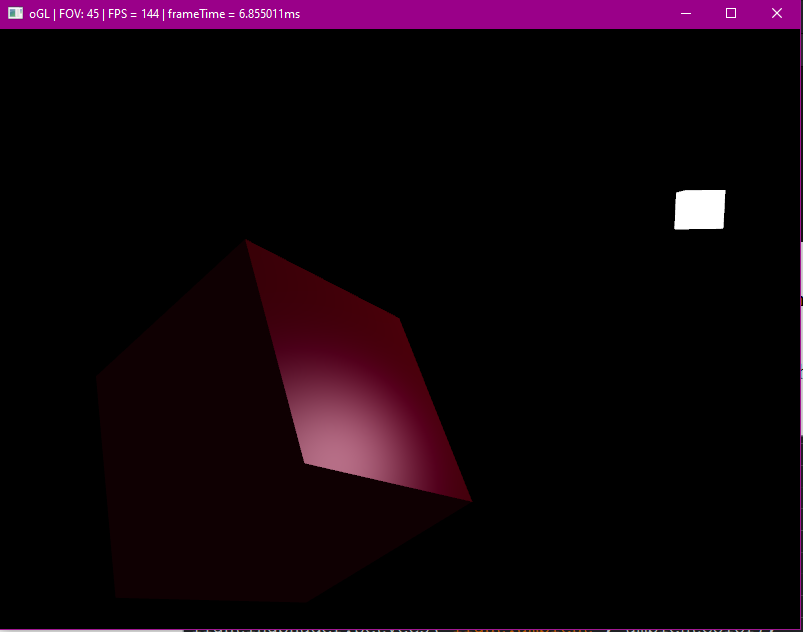
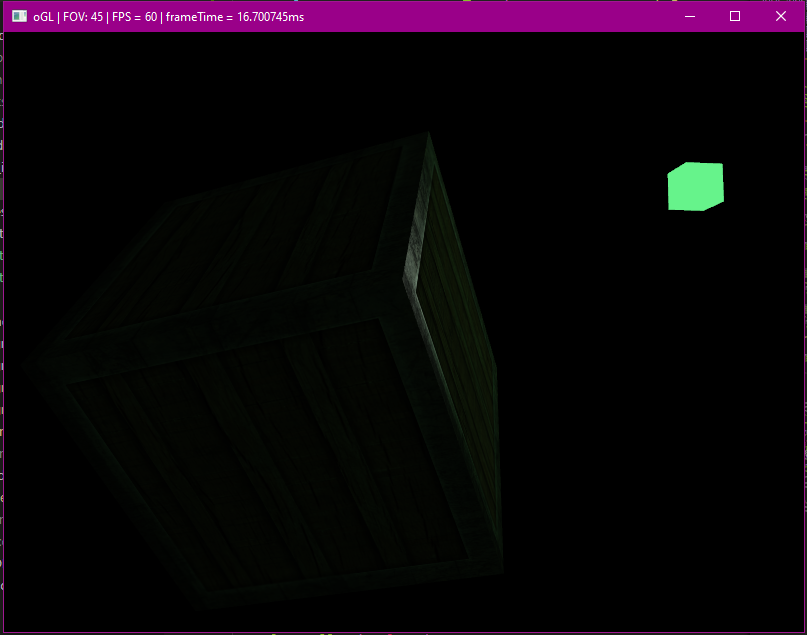
Material textures and build info

diff --git a/src/main.cpp b/src/main.cpp
@@ -154,11 +154,49 @@ int main(int argc, char **argv){
     glBufferData(GL_ARRAY_BUFFER, sizeof(vertices), vertices, GL_STATIC_DRAW);
     glVertexAttribPointer(0, 3, GL_FLOAT, GL_FALSE, 8 * sizeof(float), (void *)0);
     glVertexAttribPointer(1, 3, GL_FLOAT, GL_FALSE, 8 * sizeof(float), (void *)(3 * sizeof(float)));
-    glVertexAttribPointer(2, 2, GL_FLOAT, GL_FALSE, 8 * sizeof(float), (void *)(5 * sizeof(float)));
+    glVertexAttribPointer(2, 2, GL_FLOAT, GL_FALSE, 8 * sizeof(float), (void *)(6 * sizeof(float)));
     glEnableVertexAttribArray(0);
     glEnableVertexAttribArray(1);
+    glEnableVertexAttribArray(2);
     glBindBuffer(GL_ARRAY_BUFFER, 0);
     glBindVertexArray(0);
+
+    // texture_diffuse
+    unsigned int crateDiffuse;
+    glGenTextures(1, &crateDiffuse);
+    glBindTexture(GL_TEXTURE_2D, crateDiffuse);
+    glTexParameteri(GL_TEXTURE_2D, GL_TEXTURE_WRAP_S, GL_REPEAT);
+    glTexParameteri(GL_TEXTURE_2D, GL_TEXTURE_WRAP_T, GL_CLAMP_TO_EDGE);
+    glTexParameteri(GL_TEXTURE_2D, GL_TEXTURE_MIN_FILTER, GL_LINEAR_MIPMAP_NEAREST);
+    glTexParameteri(GL_TEXTURE_2D, GL_TEXTURE_MAG_FILTER, GL_LINEAR);
+    int texWidth, texHeight, texChannels;
+    stbi_set_flip_vertically_on_load(true);
+    unsigned char* data = stbi_load("../res/container2.png", &texWidth, &texHeight, &texChannels, 0);
+    if (data) {
+        glTexImage2D(GL_TEXTURE_2D, 0, GL_RGBA, texWidth, texHeight, 0, GL_RGBA, GL_UNSIGNED_BYTE, data);
+        glGenerateMipmap(GL_TEXTURE_2D);
+    } else {
+        std::cerr << "Failed to load texture: " << "../res/container2.png" << std::endl;
+    }
+    stbi_image_free(data);
+    // texture_specular
+    unsigned int crateSpecular;
+    glGenTextures(1, &crateSpecular);
+    glBindTexture(GL_TEXTURE_2D, crateSpecular);
+    glTexParameteri(GL_TEXTURE_2D, GL_TEXTURE_WRAP_S, GL_REPEAT);
+    glTexParameteri(GL_TEXTURE_2D, GL_TEXTURE_WRAP_T, GL_CLAMP_TO_EDGE);
+    glTexParameteri(GL_TEXTURE_2D, GL_TEXTURE_MIN_FILTER, GL_LINEAR_MIPMAP_NEAREST);
+    glTexParameteri(GL_TEXTURE_2D, GL_TEXTURE_MAG_FILTER, GL_LINEAR);
+    stbi_set_flip_vertically_on_load(true);
+    data = stbi_load("../res/container2_specular.png", &texWidth, &texHeight, &texChannels, 0);
+    if (data) {
+        glTexImage2D(GL_TEXTURE_2D, 0, GL_RGBA, texWidth, texHeight, 0, GL_RGBA, GL_UNSIGNED_BYTE, data);
+        glGenerateMipmap(GL_TEXTURE_2D);
+    } else {
+        std::cerr << "Failed to load texture: " << "../res/container2_specular.png" << std::endl;
+    }
+    stbi_image_free(data);
+
 
     shader lightingShader("./vertex.vs", "./fragment_light.fs");
     lightingShader.use();
@@ -172,7 +210,7 @@ int main(int argc, char **argv){
     glBufferData(GL_ARRAY_BUFFER, sizeof(vertices), vertices, GL_STATIC_DRAW);
     glVertexAttribPointer(0, 3, GL_FLOAT, GL_FALSE, 8 * sizeof(float), (void *)0);
     glVertexAttribPointer(1, 3, GL_FLOAT, GL_FALSE, 8 * sizeof(float), (void *)(3 * sizeof(float)));
-    glVertexAttribPointer(2, 2, GL_FLOAT, GL_FALSE, 8 * sizeof(float), (void *)(5 * sizeof(float)));
+    glVertexAttribPointer(2, 2, GL_FLOAT, GL_FALSE, 8 * sizeof(float), (void *)(6 * sizeof(float)));
     glEnableVertexAttribArray(0);
     glBindBuffer(GL_ARRAY_BUFFER, 0);
     glBindVertexArray(0);
@@ -207,20 +245,19 @@ int main(int argc, char **argv){
 
         // object
         shaderCrate.use();
-        shaderCrate.setVec3("material.ambient", 1.0f, 0.5f, 0.31f);
-        shaderCrate.setVec3("material.diffuse", 1.0f, 0.5f, 0.31f);
-        shaderCrate.setVec3("material.specular", 0.5f, 0.5f, 0.5f);
+        shaderCrate.setInt("material.diffuse", 0);
+        shaderCrate.setInt("material.specular", 1);
         shaderCrate.setFloat("material.shininess", 32.0f);
 
         glm::vec3 lightColor;
-        lightColor.x = sin(glfwGetTime() * 2.0f);
-        lightColor.y = sin(glfwGetTime() * 0.7f);
-        lightColor.z = sin(glfwGetTime() * 1.3f);
+        lightColor.x = 0.7f + sin(glfwGetTime() * 2.0f) * 0.3f;
+        lightColor.y = 0.7f +sin(glfwGetTime() * 0.7f) * 0.3f;
+        lightColor.z = 0.7f +sin(glfwGetTime() * 1.3f) * 0.3f;
         glm::vec3 lightDiffuse = lightColor * glm::vec3(0.5f);
         glm::vec3 lightAmbient = lightDiffuse * glm::vec3(0.2f);
-        shaderCrate.setVec3("light.position", lightPos);
         shaderCrate.setVec3("light.ambient", lightAmbient);
         shaderCrate.setVec3("light.diffuse", lightDiffuse);
+        shaderCrate.setVec3("light.position", lightPos);
         shaderCrate.setVec3("light.specular", 1.0f, 1.0f, 1.0f);
         shaderCrate.setVec3("viewPos", cam.position);
         
@@ -232,6 +269,11 @@ int main(int argc, char **argv){
         shaderCrate.setMat4("model", model);
         shaderCrate.setMat4("view", view);
         shaderCrate.setMat4("projection", projection);
+
+        glActiveTexture(GL_TEXTURE0);
+        glBindTexture(GL_TEXTURE_2D, crateDiffuse);
+        glActiveTexture(GL_TEXTURE1);
+        glBindTexture(GL_TEXTURE_2D, crateSpecular);
         glBindVertexArray(VAO);
         glDrawArrays(GL_TRIANGLES, 0, 36);
 
@@ -243,6 +285,7 @@ int main(int argc, char **argv){
         lightingShader.setMat4("view", view);
         lightingShader.setMat4("projection", projection);
         lightingShader.setMat4("model", model);
+        lightingShader.setVec3("color", lightColor);
         glBindVertexArray(lightVAO);
         glDrawArrays(GL_TRIANGLES, 0, 36);
 

diff --git a/README.MD b/README.MD
@@ -19,3 +19,40 @@ This is following the guidance of [learnopengl](https://learnopengl.com/).
 - [ ] Lighting
 - [ ] Shadows
 - [ ] PBR materials
+
+## Setup:
+### VS Code
+Currently, I am compiling this code in the VS Code IDE, with mingw suppling g++. Below is the arguments in tasks.json:
+```JSON
+"args": [
+    "-fdiagnostics-color=always",
+    "-g",
+    "${file}",
+    "..\\include\\glad.c",
+    "-lglfw3","-lgdi32","-lopengl32","-luser32","-lkernel32",
+    "-IS:\\Mutual\\Code\\C++\\Libraries\\glfw-3.3.8\\include",
+    "-IS:\\Mutual\\Code\\C++\\Libraries\\glad\\include",
+    "-IS:\\Mutual\\Code\\C++\\Libraries\\glm",
+    "-IS:\\Mutual\\Code\\C++\\oGL\\include",
+    "-LS:\\Mutual\\Code\\C++\\Libraries\\glfw-3.3.8\\build\\src",
+    "-o",
+    "${fileDirname}\\${fileBasenameNoExtension}.exe"
+],
+```
+For intellisense, my c_cpp_properties.json has:
+```JSON
+"includePath": [
+    "${workspaceFolder}/**",
+    "S:\\Mutual\\Code\\C++\\Libraries\\glfw-3.3.8\\include",
+    "S:\\Mutual\\Code\\C++\\Libraries\\glad\\include",
+    "S:\\Mutual\\Code\\C++\\Libraries\\glm\\**"
+],
+```
+### GLFW
+GLFW was built using its supplied CMAKE config. The library is then statically compiled into this project. If changing to dynamic linking, or chaging the includes, be aware that GLFW requires specific ```#define``` statements, and ordering of ```#include``` lines.
+### GLAD
+Glad is customised via their website. A ```glad.c``` file is then to be built into the project.
+### STB
+This header library is downloaded, then included into ```main.cpp```.
+### GLM
+Another larger library. Downloaded, and then linked to for g++ to find at compile time.
